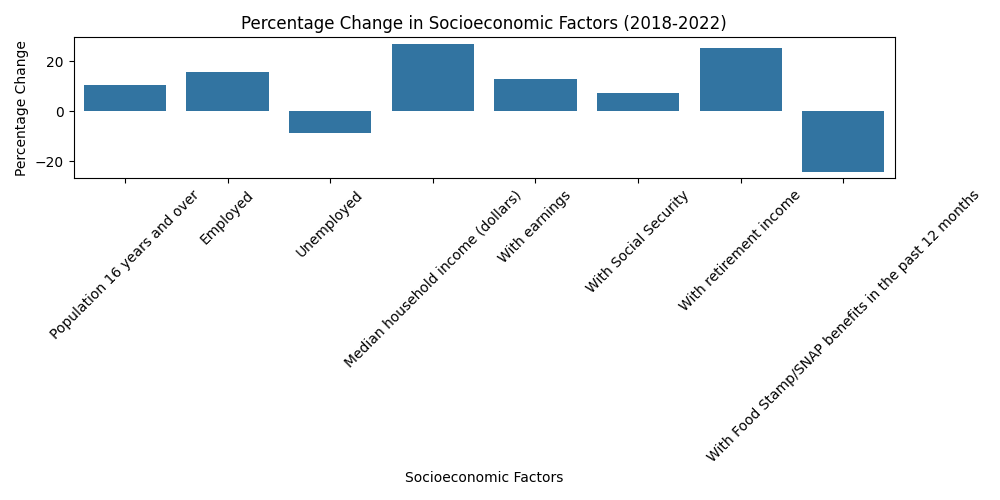
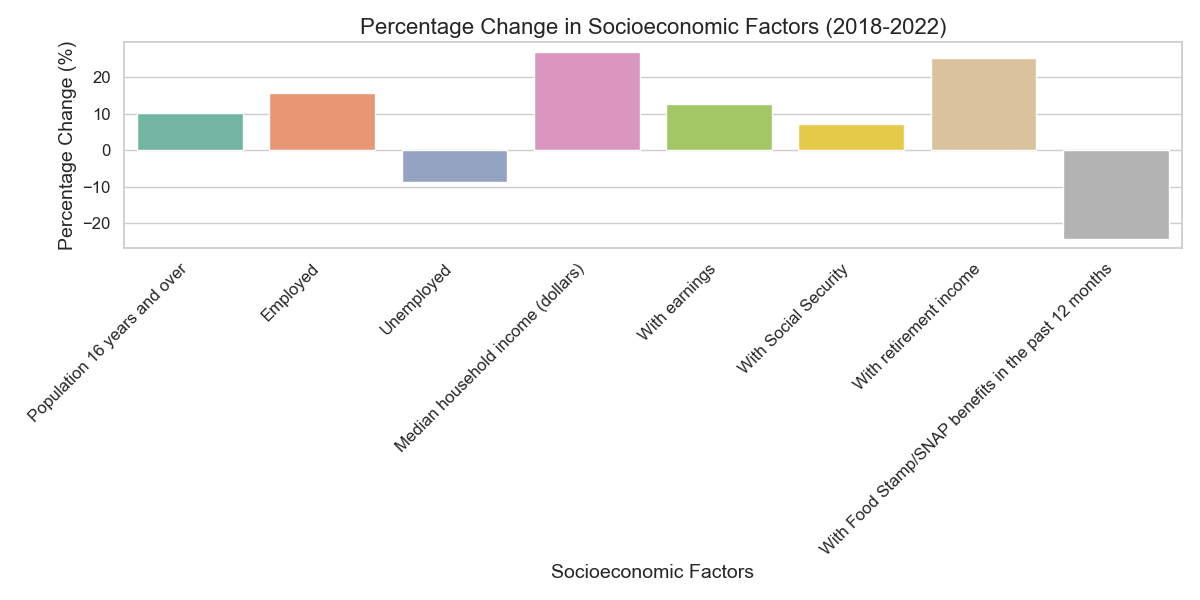
percentage update

diff --git a/socioeconomic_dynamics/martin.py b/socioeconomic_dynamics/martin.py
@@ -1,9 +1,10 @@
 import pandas as pd
 import matplotlib.pyplot as plt
-import seaborn as sns
 import os
 from scipy import stats
 import numpy as np
+import seaborn as sns
+
 
 # Load and clean datasets
 emp2018 = pd.read_csv("../data/employment2018.csv")
@@ -75,12 +76,16 @@ pd.DataFrame.from_dict(percentage_changes, orient='index', columns=['Percentage 
 keys = list(percentage_changes.keys())
 values = list(percentage_changes.values())
 
-plt.figure(figsize=(10, 5))
-sns.barplot(x=keys, y=values)
-plt.xticks(rotation=45)
-plt.xlabel('Socioeconomic Factors')
-plt.ylabel('Percentage Change')
-plt.title('Percentage Change in Socioeconomic Factors (2018-2022)')
+plt.figure(figsize=(12, 6))
+sns.set_theme(style="whitegrid")
+colors = sns.color_palette("Set2", len(keys))  # Set a color palette
+sns.barplot(x=keys, y=values, palette=colors)
+
+plt.xticks(rotation=45, ha='right', fontsize=12)
+plt.yticks(fontsize=12)
+plt.xlabel('Socioeconomic Factors', fontsize=14)
+plt.ylabel('Percentage Change (%)', fontsize=14)
+plt.title('Percentage Change in Socioeconomic Factors (2018-2022)', fontsize=16)
 plt.tight_layout()
 
 # Save the plot as an image file
